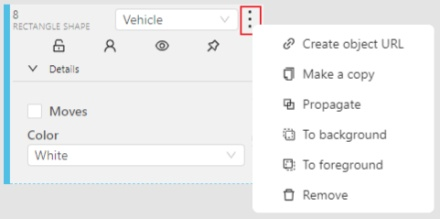
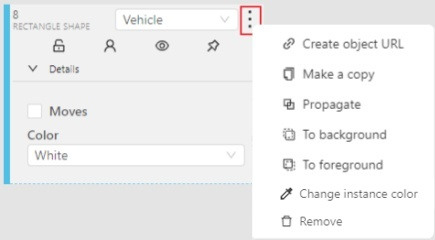
Update a few items in User Guide (#2242)
* Update images and user_guide.md

* fix link and typos in user_guide.md

* fix mistakes in user_guide.md

diff --git a/cvat/apps/documentation/user_guide.md b/cvat/apps/documentation/user_guide.md
@@ -285,39 +285,22 @@ Go to the [Django administration panel](http://localhost:8080/admin). There you 
 
 ### Models
 
-On the ``Models`` page allows you to manage your deep learning (DL) models uploaded for auto annotation.
-Using the functionality you can upload, update or delete a specific DL model.
-To open the model manager, click the ``Models`` button on the navigation bar.
-The ``Models`` page contains information about all the existing models. The list of models is divided into two sections:
-- Primary — contains default CVAT models. Each model is a separate element.
-It contains the model’s name, a framework on which the model was based on and
-``Supported labels`` (a dropdown list of all supported labels).
-- Uploaded by a user — Contains models uploaded by a user.
-The list of user models has additional columns with the following information:
-name of the user who uploaded the model and the upload date.
-Here you can delete models in the ``Actions`` menu.
+The Models page contains a list of deep learning (DL) models deployed for semi-automatic and automatic annotation.
+To open the Models page, click the Models button on the navigation bar.
+The list of models is presented in the form of a table. The parameters indicated for each model are the following:
+ - ``Framework`` the model is based on
+ - model ``Name``
+ - model ``Type``:
+    -   ``detector`` - used for automatic annotation (available in [detectors](#detectors) and [automatic annotation](#automatic-annotation))
+    -  ``interactor`` - used for semi-automatic shape annotation (available in [interactors](#interactors))
+    -  ``tracker`` -  used for semi-automatic track annotation (available in [trackers](#trackers))
+    -  ``reid`` -  used to combine individual objects into a track (available in [automatic annotation](#automatic-annotation))
+ - ``Description`` - brief description of the model
+ - ``Labels`` - list of the supported labels (only for the models of the ``detectors`` type)
 
 ![](static/documentation/images/image099.jpg)
 
-In order to add your model, click `` Create new model``.
-Enter model name, and select model file using "Select files" button.
-To annotate a task with a custom model you need to prepare 4 files:
-- ``Model config`` (*.xml) - a text file with network configuration.
-- ``Model weights`` (*.bin) - a binary file with trained weights.
-- ``Label map`` (*.json) - a simple json file with label_map dictionary like an object with
-string values for label numbers.
-- ``Interpretation script`` (*.py) - a file used to convert net output layer to a predefined structure
-which can be processed by CVAT.
-
-You can learn more about creating model files by pressing [(?)](/cvat/apps/auto_annotation).
-Check the box `` Load globally`` if you want everyone to be able to use the model.
-Click the ``Submit`` button to submit  a model.
-
-![](static/documentation/images/image104.jpg)
-
-After the upload is complete your model can be found in the ``Uploaded by a user`` section.
-Use "Auto annotation" button to pre annotate a task using one of your DL models.
-[Read more](/cvat/apps/auto_annotation)
+Read how to install your model [here](installation.md#semi-automatic-and-automatic-annotation).
 
 ### Search
 
@@ -797,12 +780,13 @@ Switching between user interface modes.
 **Shapes block** - contains all the tools for creating shapes.
 |Icon                                         |Description   |Links to section  |
 |--                                           |--            |--                |
+|![](static/documentation/images/image189.jpg)|``AI Tools`` |[AI Tools](#ai-tools)|
 |![](static/documentation/images/image167.jpg)|``Rectangle``|[Shape mode](#shape-mode-basics); [Track mode](#track-mode-basics);<br/> [Drawing by 4 points](#annotation-with-rectangle-by-4-points)|
 |![](static/documentation/images/image168.jpg)|``Polygon``  |[Annotation with polygons](#annotation-with-polygons); [Track mode with polygons](#track-mode-with-polygons)  |
 |![](static/documentation/images/image169.jpg)|``Polyline`` |[Annotation with polylines](#annotation-with-polylines)|
 |![](static/documentation/images/image170.jpg)|``Points``   |[Annotation with points](#annotation-with-points)      |
 |![](static/documentation/images/image176.jpg)|``Cuboid``   |[Annotation with cuboids](#annotation-with-cuboids)    |
-|![](static/documentation/images/image171.jpg)|``Tag``      |[Annotation with tags](#annotation-with-tag)s            |
+|![](static/documentation/images/image171.jpg)|``Tag``      |[Annotation with tags](#annotation-with-tag)           |
 
 **Edit block** - contains tools for editing tracks and shapes.
 |Icon                                         |Description                                        |Links to section  |
@@ -868,6 +852,10 @@ The action menu contains:
 
 - ``To background`` - moves the object to the background. The keyboard shortcut ``-``,``_``.
 - ``To foreground`` - moves the object to the foreground. The keyboard shortcut ``+``,``=``.
+- ``Change instance color``- choosing a color using the color picker (available only in instance mode).
+
+  ![](static/documentation/images/image153.jpg)
+
 - ``Remove`` - removes the object. The keyboard shortcut ``Del``,``Shift+Del``.
 
 A shape can be locked to prevent its modification or moving by an accident. Shortcut to lock an object: ``L``.
@@ -888,11 +876,6 @@ You can change the way an object is displayed on a frame (show or hide).
 
 ![](static/documentation/images/image052.jpg)
 
-You can change an object's color.
-To do so, click on the color bar of the object and select a color from the palette that appears.
-
-![](static/documentation/images/image153.jpg)
-
 By clicking on the ``Details`` button you can collapse or expand the field with all the attributes of the object.
 
 ![](static/documentation/images/image154.jpg)
@@ -900,9 +883,10 @@ By clicking on the ``Details`` button you can collapse or expand the field with 
 ---
 
 #### Labels
-You can also change the color of any object to random, to do so just hover
-the mouse over the object on the frame and highlight them by clicking on a label you need.
-In this tab, you can lock or hide objects of a certain label.
+In this tab you can lock or hide objects of a certain label.
+To change the color for a specific label,
+you need to go to the task page and select the color by clicking the edit button,
+this way you will change the label color for all jobs in the task.
 
 ![](static/documentation/images/image062.jpg)
 
@@ -940,9 +924,9 @@ Change the opacity of the selected object's fill.
 
 ![](static/documentation/images/image089_detrac.jpg)
 
-**Black Stroke** checkbox
+**Outlines borders** checkbox
 
-Changes the shape border from colored to black.
+You can change a special shape border color by clicking on the ``Eyedropper`` icon.
 
 ![](static/documentation/images/image088_detrac.jpg)
 
@@ -1051,7 +1035,7 @@ In most cases specifying positive points alone is enough to build a polygon.
   If you want to postpone the request and create a few more points, hold down ``Ctrl`` and continue,
   the request will be sent after the key is released.
 
-  ![](static/documentation/images/image188.jpg)
+  ![](static/documentation/images/image188_detrac.jpg)
 
 - To finish interaction, click on the icon on the controls sidebar or press ``N`` on your keyboard.
 
@@ -1116,7 +1100,7 @@ Before starting, you need to select ``Polygon`` on the controls sidebar and choo
   delete the previous point by right-clicking on it.
 - Press ``N`` again for completing the shape.
 - After creating the polygon, you can move the points or delete them by right-clicking and selecting ``Delete point``
-  or clicking with pressed ``Ctrl`` key in the context menu.
+  or clicking with pressed ``Alt`` key in the context menu.
 
 ### Drawing using automatic borders
 
@@ -1548,7 +1532,7 @@ Many UI elements have shortcut hints. Put your pointer to a required element to 
 |                                | _Operations with objects_                                                       |
 | ``Ctrl``                       | Switch automatic bordering for polygons and polylines during drawing/editing    |
 | Hold ``Ctrl``                  | When the shape is active and fix it                                             |
-| ``Ctrl+Click`` on point        | Deleting a point (used when hovering over a point of polygon, polyline, points) |
+| ``Alt+Click`` on point         | Deleting a point (used when hovering over a point of polygon, polyline, points) |
 | ``Shift+Click`` on point       | Editing a shape (used when hovering over a point of polygon, polyline or points)|
 | ``Right-Click`` on shape       | Display of an object element from objects sidebar                               |
 | ``T+L``                        | Change locked state for all objects in the sidebar                              |
